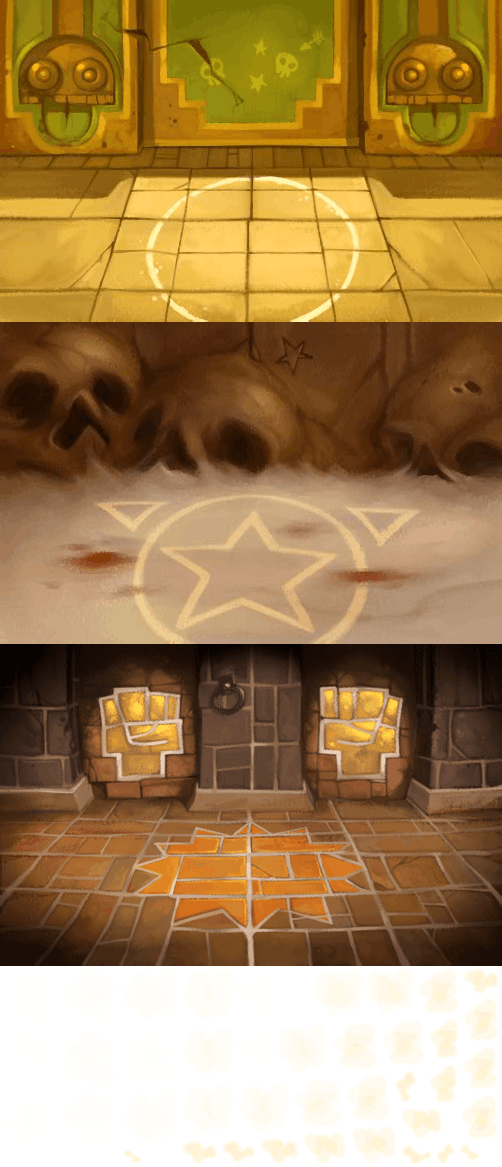
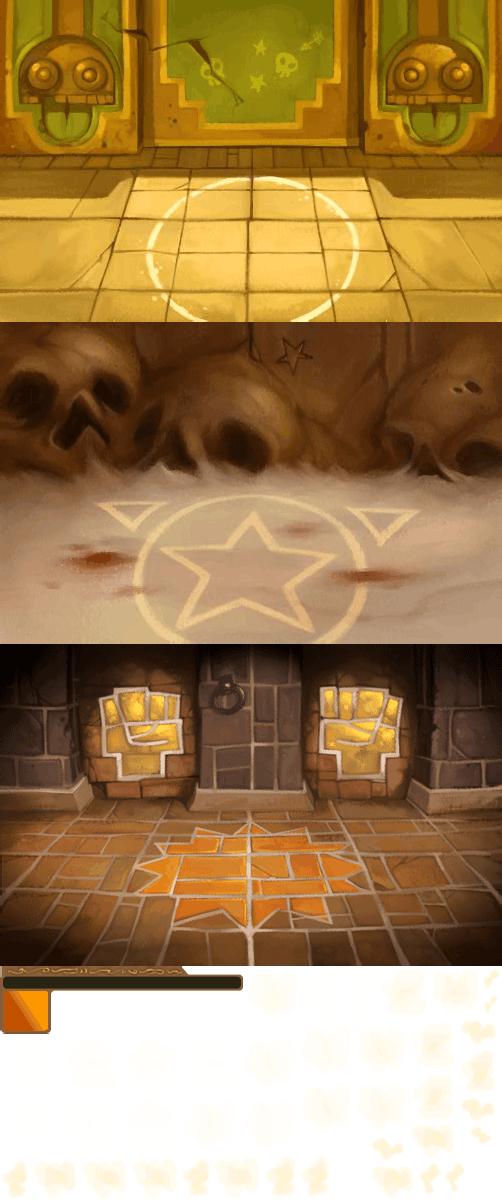
feat: Fight names and HP bars. #78

diff --git a/client/src/utils/fight/setupFight.ts b/client/src/utils/fight/setupFight.ts
@@ -2,6 +2,8 @@
 /* eslint-disable no-await-in-loop */
 import { Animation, Fight } from '@eternaltwin/labrute-core/types';
 import { Theme } from '@mui/material';
+import { GlowFilter } from '@pixi/filter-glow';
+import { OutlineFilter } from '@pixi/filter-outline';
 import { Tweener } from 'pixi-tweener';
 import * as PIXI from 'pixi.js';
 import { AnimatedSprite, Application, Sprite } from 'pixi.js';
@@ -15,12 +17,31 @@ import hypnotise from './hypnotise.js';
 import moveBack from './moveBack.js';
 import moveTo from './moveTo.js';
 
-// Wait for animation completion
-export const animationComplete = (animation: AnimatedSprite) => new Promise((resolve) => {
-  animation.onComplete = () => {
-    resolve(null);
-  };
-});
+export const removeHp = (brute: AnimationFighter, hp: number) => {
+  if (!brute.hpBar || !brute.hpBarPhantom) {
+    throw new Error(`Brute HP not found: ${brute.name}`);
+  }
+
+  let newWidth = brute.hpBar.width - (hp / brute.maxHp) * 236 * (brute.team === 'left' ? 1 : -1);
+
+  if (brute.team === 'left' && newWidth < 0) {
+    newWidth = 0;
+  } else if (brute.team === 'right' && newWidth > 0) {
+    newWidth = 0;
+  }
+
+  brute.hpBar.width = newWidth;
+
+  Tweener.add({
+    target: brute.hpBarPhantom,
+    duration: 0.25,
+    delay: 0.25,
+  }, {
+    width: newWidth,
+  }).catch((error) => {
+    console.error(error);
+  });
+};
 
 const setupSprite = (
   app: PIXI.Application,
@@ -166,7 +187,102 @@ const setupFight: (
   const border = new PIXI.Graphics();
   border.lineStyle(2, PIXI.utils.string2hex(theme.palette.secondary.main));
   border.drawRect(0, 0, app.screen.width, app.screen.height);
+  border.zIndex = 102;
   app.stage.addChild(border);
+
+  // Add headers
+
+  // First brute header
+  const brute1Header = new PIXI.Sprite(miscSheet.textures['header.png']);
+  brute1Header.filters = [new OutlineFilter()];
+  brute1Header.x = 4;
+  brute1Header.y = 10;
+  brute1Header.zIndex = 101;
+  app.stage.addChild(brute1Header);
+
+  // First brute name
+  const brute1Name = new PIXI.Text(fight.brute_1.toLocaleUpperCase(), {
+    fontFamily: 'Poplar', fontSize: 20, fill: 0xffffff
+  });
+  brute1Name.filters = [new OutlineFilter()];
+  brute1Name.x = 4;
+  brute1Name.y = 0;
+  brute1Name.zIndex = 102;
+  app.stage.addChild(brute1Name);
+
+  // First brute HP bar
+  const brute1HpBar = new PIXI.Graphics();
+  brute1HpBar.beginFill(PIXI.utils.string2hex(theme.palette.hpBar.main));
+  brute1HpBar.drawRoundedRect(0, 0, 236, 9, 4);
+  brute1HpBar.filters = [new GlowFilter({
+    distance: 6,
+    innerStrength: 2,
+    outerStrength: 0,
+    color: PIXI.utils.string2hex(theme.palette.hpBar.dark),
+  })];
+  brute1HpBar.x = 7;
+  brute1HpBar.y = 21;
+  brute1HpBar.zIndex = 103;
+  brute1HpBar.name = `${fight.brute_1}.hp`;
+  app.stage.addChild(brute1HpBar);
+
+  // First brute phantom HP bar
+  const brute1PhantomHpBar = new PIXI.Graphics();
+  brute1PhantomHpBar.beginFill(PIXI.utils.string2hex(theme.palette.error.main));
+  brute1PhantomHpBar.drawRoundedRect(0, 0, 236, 9, 4);
+  brute1PhantomHpBar.x = 7;
+  brute1PhantomHpBar.y = 21;
+  brute1PhantomHpBar.zIndex = 102;
+  brute1HpBar.name = `${fight.brute_1}.hp-phantom`;
+  app.stage.addChild(brute1PhantomHpBar);
+
+  // Second brute header
+  const brute2Header = new PIXI.Sprite(miscSheet.textures['header.png']);
+  brute2Header.filters = [new OutlineFilter()];
+  brute2Header.scale.x = -1;
+  brute2Header.x = app.screen.width - 4;
+  brute2Header.y = 10;
+  brute2Header.zIndex = 101;
+  app.stage.addChild(brute2Header);
+
+  // Second brute name
+  const brute2Name = new PIXI.Text(fight.brute_2.toLocaleUpperCase(), {
+    fontFamily: 'Poplar', fontSize: 20, fill: 0xffffff, align: 'right'
+  });
+  brute2Name.anchor.x = 1;
+  brute2Name.filters = [new OutlineFilter()];
+  brute2Name.x = app.screen.width - 4;
+  brute2Name.y = 0;
+  brute2Name.zIndex = 102;
+  app.stage.addChild(brute2Name);
+
+  // Second brute HP bar
+  const brute2HpBar = new PIXI.Graphics();
+  brute2HpBar.beginFill(PIXI.utils.string2hex(theme.palette.hpBar.main));
+  brute2HpBar.drawRoundedRect(0, 0, 236, 9, 4);
+  brute2HpBar.filters = [new GlowFilter({
+    distance: 6,
+    innerStrength: 2,
+    outerStrength: 0,
+    color: PIXI.utils.string2hex(theme.palette.hpBar.dark),
+  })];
+  brute2HpBar.scale.x = -1;
+  brute2HpBar.x = app.screen.width - 7;
+  brute2HpBar.y = 21;
+  brute2HpBar.zIndex = 103;
+  brute1HpBar.name = `${fight.brute_2}.hp`;
+  app.stage.addChild(brute2HpBar);
+
+  // Second brute phantom HP bar
+  const brute2PhantomHpBar = new PIXI.Graphics();
+  brute2PhantomHpBar.beginFill(PIXI.utils.string2hex(theme.palette.error.main));
+  brute2PhantomHpBar.drawRoundedRect(0, 0, 236, 9, 4);
+  brute2PhantomHpBar.scale.x = -1;
+  brute2PhantomHpBar.x = app.screen.width - 7;
+  brute2PhantomHpBar.y = 21;
+  brute2PhantomHpBar.zIndex = 102;
+  brute1HpBar.name = `${fight.brute_2}.hp-phantom`;
+  app.stage.addChild(brute2PhantomHpBar);
 
   // Set stage as sortable
   app.stage.sortableChildren = true;
@@ -199,6 +315,12 @@ const setupFight: (
       team,
       currentAnimation: arriveStartAnimation,
       activeWeapon: null,
+      hpBar: fighter.master
+        ? undefined
+        : fighter.name === fight.brute_1 ? brute1HpBar : brute2HpBar,
+      hpBarPhantom: fighter.master
+        ? undefined
+        : fighter.name === fight.brute_1 ? brute1PhantomHpBar : brute2PhantomHpBar,
     };
   });
 

diff --git a/client/src/utils/fight/hit.ts b/client/src/utils/fight/hit.ts
@@ -3,7 +3,7 @@ import randomBetween from '@eternaltwin/labrute-core/utils/randomBetween';
 import { AnimatedSprite, Application } from 'pixi.js';
 
 import findFighter, { AnimationFighter } from './findFighter.js';
-import { changeAnimation } from './setupFight.js';
+import { changeAnimation, removeHp } from './setupFight.js';
 import stagger from './stagger.js';
 
 const hit = async (
@@ -23,6 +23,11 @@ const hit = async (
 
   // Set animation to the correct hit animation
   changeAnimation(app, target, animation as Animation);
+
+  // Update HP bar
+  if (target.hpBar) {
+    removeHp(target, step.damage);
+  }
 
   // Stagger
   await stagger(target.currentAnimation as AnimatedSprite, target.team);

diff --git a/client/src/views/FightView.tsx b/client/src/views/FightView.tsx
@@ -74,7 +74,7 @@ const FightView = () => {
         <Box display="flex">
           {/* ADVERTS */}
           <Box sx={{ width: 236, mt: 5 }}>
-            <Text bold color="text.primary" textAlign="center">{t('fight.discoverGames')}</Text>
+            <Text color="text.primary" textAlign="center" typo="Poplar" upperCase>{t('fight.discoverGames')}</Text>
             {adverts.map((advert) => (
               <Tooltip title="TODO" key={advert}>
                 <Link href="" sx={{ width: 200, display: 'inline-block' }}>

diff --git a/client/src/utils/fight/findFighter.ts b/client/src/utils/fight/findFighter.ts
@@ -6,6 +6,8 @@ export interface AnimationFighter extends Fighter {
   team: 'left' | 'right';
   currentAnimation: PIXI.AnimatedSprite | PIXI.Sprite;
   activeWeapon: AnimatedWeapon | null;
+  hpBar?: PIXI.Graphics;
+  hpBarPhantom?: PIXI.Graphics;
 }
 
 const findFighter = (
